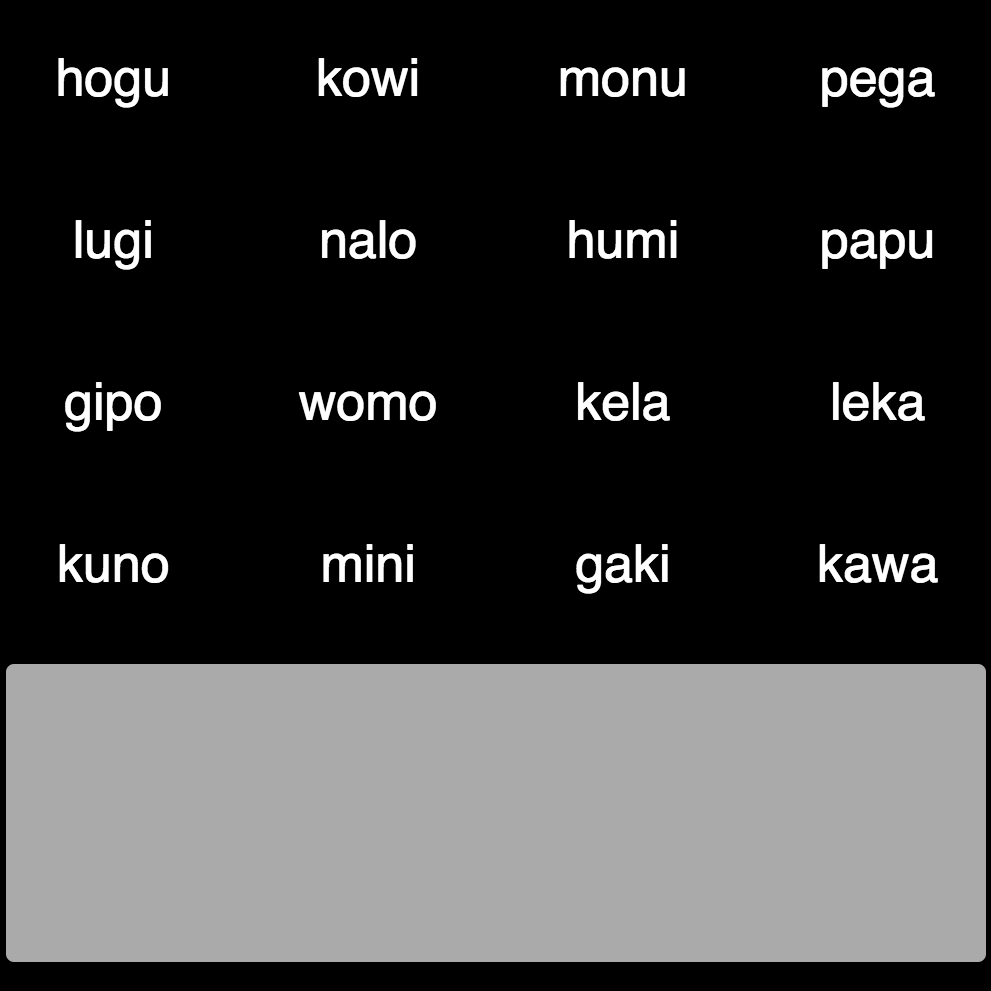
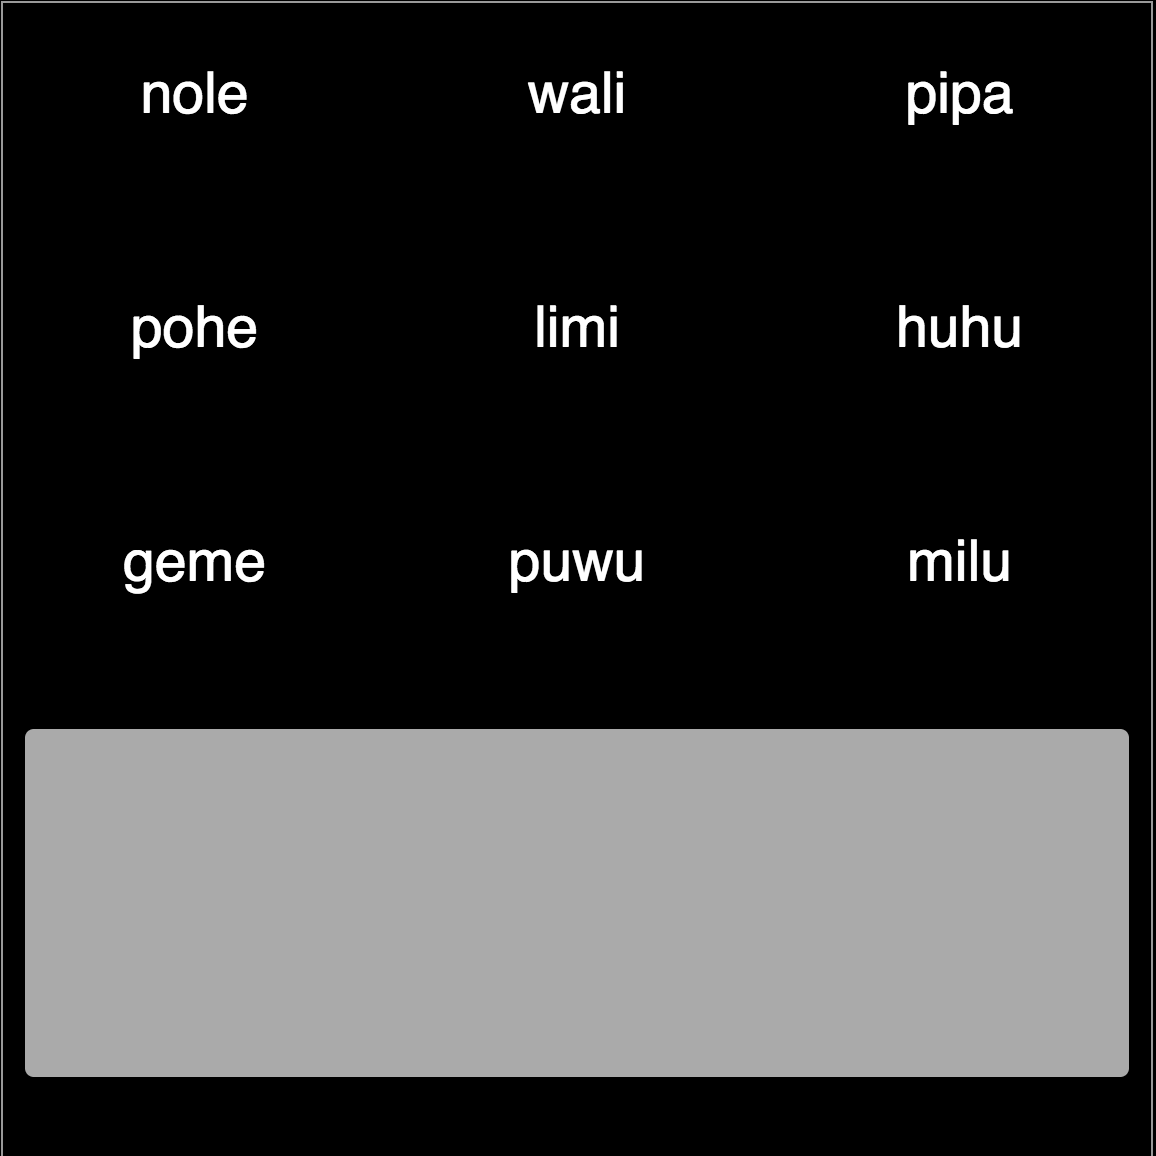
Tweak instructions

diff --git a/experiments/experiment2/forms/instructions.html b/experiments/experiment2/forms/instructions.html
@@ -69,18 +69,19 @@
 	</p>
 
 	<p>
-	  For each order, we will pick four of these objects and
-	  show them to both of you. <b>The objects will be shown in
-	  different positions on your different screens.</b> The objects
-	  in the <b>target set</b> will be outlined in black for the
+	  For each order, we will pick four of these objects and show
+	  them to both of you. <b>The objects will be shown in
+	  different positions on your different screens.</b> The
+	  objects in the target set will be outlined in black for the
 	  Speaker. Only the Speaker can see which objects are in the
-	  order.
+	  order: the only way for the Listener to do their job is to
+	  use the Speaker's message.
 	</p>
 	
 	<p>
 	  Sometimes the orders are for one object only. Other times
-	  they are for two objects! In the first example below, the
-	  only object in the target set is the circle in the
+	  they are for a pair of 2 objects! In the first example below, the
+	  only object in the order is the circle in the
 	  upper-left corner of the Speaker's display. In the second
 	  example, the Speaker must tell the Listener about both
 	  highlighted objects in the order!
@@ -108,14 +109,14 @@
 	  you think they're telling you about. You'll both get <b> a
 	  bonus of $0.03 when you correctly fill the order</b>
 	  (i.e. when the Listener selects exactly the objects in the
-	  target set), so pay attention!
+	  order), so pay attention!
 	</p>
 	
 	<p>
 	  What makes this game more interesting and challenging is the
 	  content of your messages: instead of using the English
 	  language, you get to make up a language together! Both you
-	  and your partner will see an array of 16 messages that
+	  and your partner will see an array of 9 messages that
 	  could be part of this language: to send one of the messages,
 	  the Speaker can click and drag it into the grey 'dropzone'
 	  below. 

diff --git a/experiments/experiment2/game.client.js b/experiments/experiment2/game.client.js
@@ -101,7 +101,7 @@ var client_onserverupdate_received = function(data){
       $('#advance_button').show().attr('disabled', 'disabled');
       $('#instructs').empty().append(
 	"<p>After you see the speaker drag a word into the box,</p>" 
-	  + "<p>click the object or objects they are telling you about.</p>");
+	  + "<p>click the single object or pair of objects they are telling you about.</p>");
       $('#labels').empty().append(
 	_.map(globalGame.labels, (word) => {
 	  return '<p class="cell draggable drag-drop" style="color:black">' + word + '</p>';
